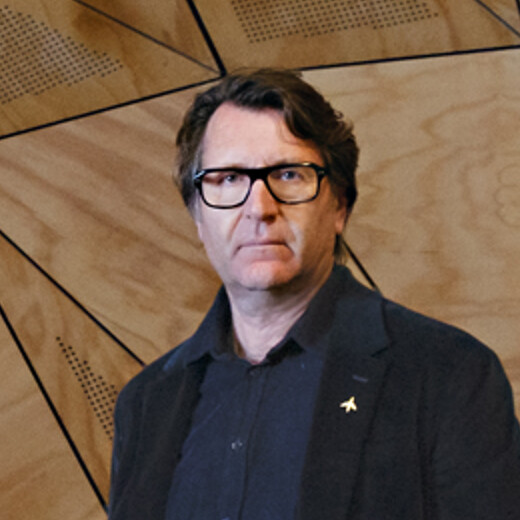
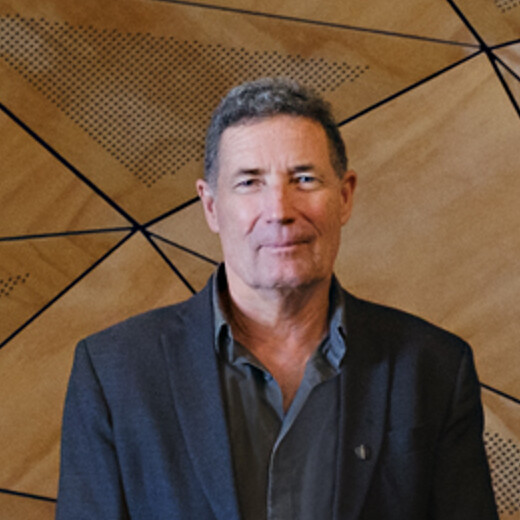
swap photos

diff --git a/content/people/ewan/index.md b/content/people/ewan/index.md
@@ -11,5 +11,4 @@ Profile: [Tennent Brown](https://tennentbrown.co.nz/news/ewan-brown-presidents-a
 [2024 Gold Medal citation, Te Kāhui Whaihanga NZIA](https://www.nzia.co.nz/awards/gold-medal/2024-gold-medal-hugh-tennent-and-ewan-brown/)
 
 *Photo: Catherine Cattanach, via [Te Kāhui Whaihanga NZIA](https://www.nzia.co.nz/awards/gold-medal/2024-gold-medal-hugh-tennent-and-ewan-brown/)
-— cropped from a portrait of both Gold Medal recipients; left/right identified per
-[ArchitectureNow](https://architecturenow.co.nz/articles/joining-forces-for-good/).*
+— cropped from a portrait of both 2024 Gold Medal recipients.*

diff --git a/content/people/hugh/index.md b/content/people/hugh/index.md
@@ -11,5 +11,4 @@ Profile: [ArchitectureNow](https://architecturenow.co.nz/contributors/Tennent-Hu
 [2024 Gold Medal citation, Te Kāhui Whaihanga NZIA](https://www.nzia.co.nz/awards/gold-medal/2024-gold-medal-hugh-tennent-and-ewan-brown/)
 
 *Photo: Catherine Cattanach, via [Te Kāhui Whaihanga NZIA](https://www.nzia.co.nz/awards/gold-medal/2024-gold-medal-hugh-tennent-and-ewan-brown/)
-— cropped from a portrait of both Gold Medal recipients; left/right identified per
-[ArchitectureNow](https://architecturenow.co.nz/articles/joining-forces-for-good/).*
+— cropped from a portrait of both 2024 Gold Medal recipients.*
